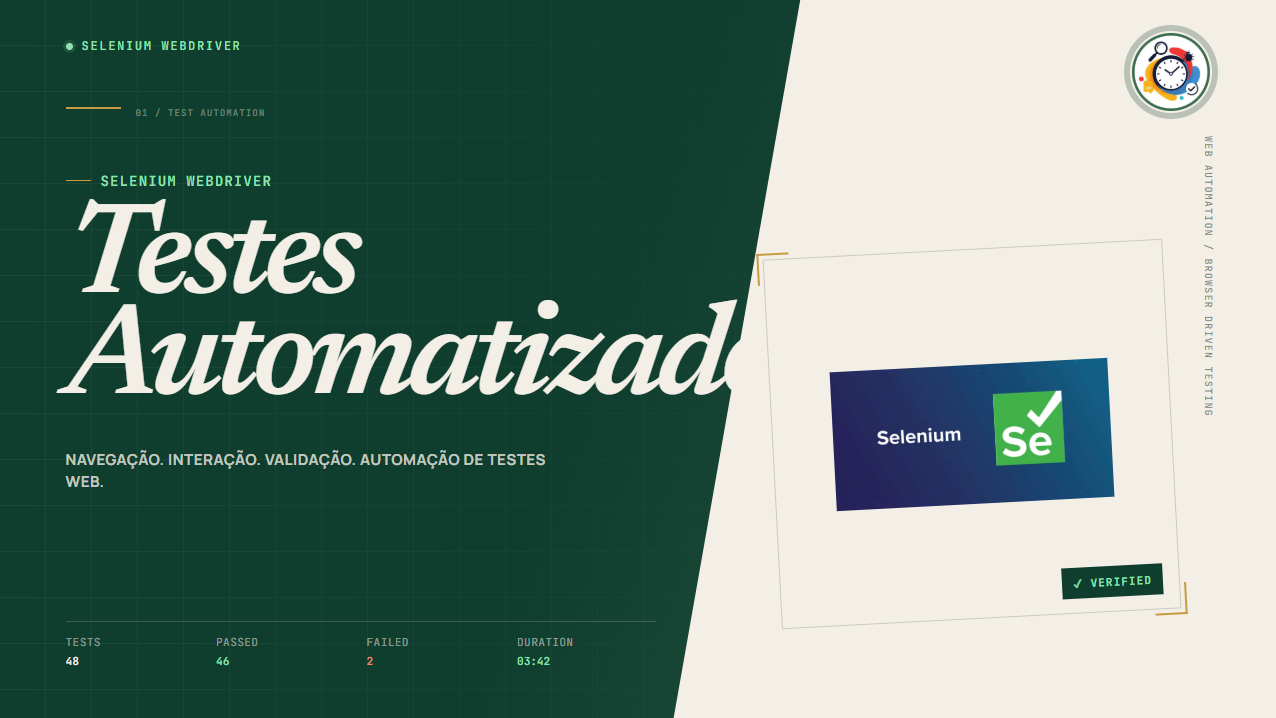
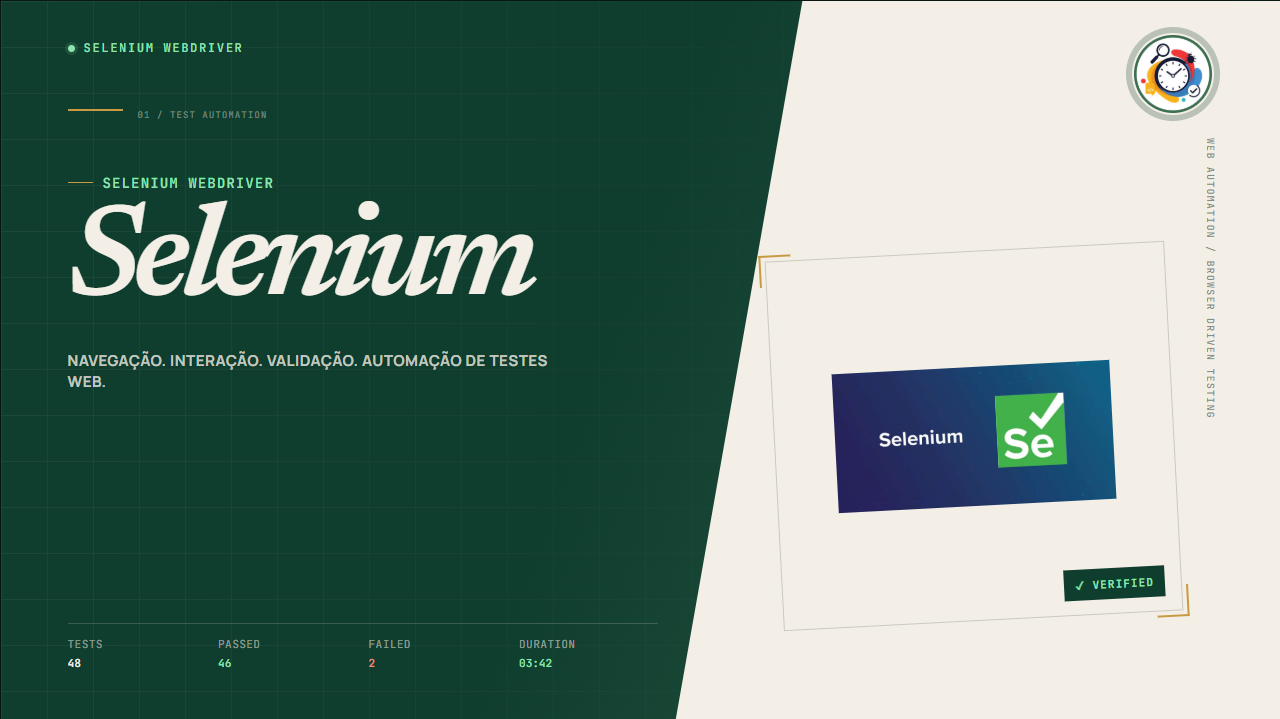
fix: Selenium

diff --git a/Thumbnail/selenium/index.html b/Thumbnail/selenium/index.html
@@ -767,10 +767,7 @@
 
 
       <h1>
-
-        Testes<br>
-        Automatizados
-
+        Selenium
       </h1>
 
 
